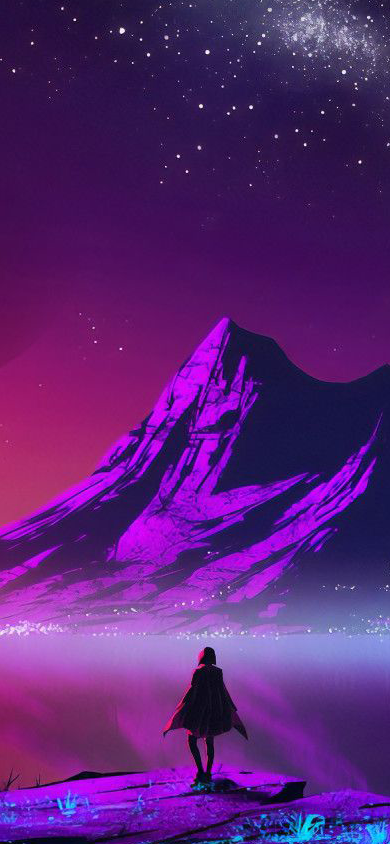
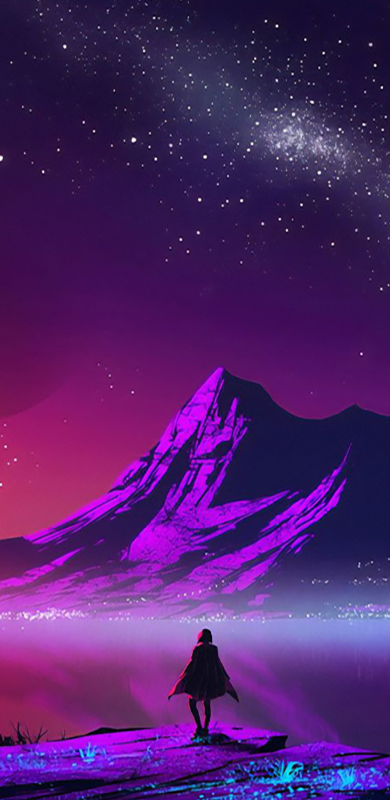
Parallax
section 1 intro parallax mobile

diff --git a/src/index.html b/src/index.html
@@ -33,13 +33,22 @@
       </nav>
     </header>
     <section>
-      <div>
-        <img class="img" src="assets/images/bg-intro-mb/69.png" alt="">
+      <div class="parallax-container">
+        <div class="parallax-layer" id="layer1"></div>
+        <div class="parallax-layer" id="layer2"></div>
+        <div class="parallax-layer" id="layer3"></div>
+        <div class="parallax-layer" id="layer4"></div>
       </div>
     </section>
-    <section></section>
-    <section></section>
-    <section></section>
+    <section>
+      <p>Lorem ipsum, dolor sit amet consectetur adipisicing elit. Placeat tempora recusandae voluptatibus commodi soluta, eaque dignissimos non fugiat molestiae aliquid perspiciatis accusamus ea aperiam rerum incidunt suscipit, eum, sint pariatur?</p>
+    </section>
+    <section>
+      <p>Lorem ipsum dolor sit amet consectetur, adipisicing elit. Nemo officia, numquam exercitationem assumenda voluptatem sint deleniti sed molestias placeat eius. Magnam cupiditate, reiciendis maiores porro fugit molestiae debitis sit vel?</p>
+    </section>
+    <section>
+      <p>Lorem ipsum dolor sit amet consectetur, adipisicing elit. Nemo officia, numquam exercitationem assumenda voluptatem sint deleniti sed molestias placeat eius. Magnam cupiditate, reiciendis maiores porro fugit molestiae debitis sit vel?</p>
+    </section>
     <footer></footer>
   </main>
 </body>

diff --git a/src/styles/app.scss b/src/styles/app.scss
@@ -5,6 +5,7 @@ body{
     background-color: #141015;
     margin: 0;
     padding: 0;
+    overflow-x: hidden;
     list-style: none;
 }
 .container{
@@ -129,4 +130,38 @@ body{
 }
 .img{
     width: 100%;
+}
+.parallax-container {
+    position: relative;
+    height: 100vh;
+    overflow: hidden;
+}
+
+.parallax-layer {
+    position: absolute;
+    width: 100%;
+    height: 100%;
+    background-size: cover;
+    background-position: center;
+    will-change: transform;
+}
+
+#layer1 {
+    background-image: url('../assets/images/bg-intro-mb/para1.png');
+    z-index: 1;
+}
+
+#layer2 {
+    background-image: url('../assets/images/bg-intro-mb/para2.png');
+    z-index: 2;
+}
+
+#layer3 {
+    background-image: url('../assets/images/bg-intro-mb/para3.png');
+    z-index: 3;
+}
+
+#layer4 {
+    background-image: url('../assets/images/bg-intro-mb/para4.png');
+    z-index: 4;
 }

diff --git a/src/styles/app.css b/src/styles/app.css
@@ -13,6 +13,7 @@ body {
   background-color: #141015;
   margin: 0;
   padding: 0;
+  overflow-x: hidden;
   list-style: none;
 }
 
@@ -137,4 +138,39 @@ body {
 
 .img {
   width: 100%;
+}
+
+.parallax-container {
+  position: relative;
+  height: 100vh;
+  overflow: hidden;
+}
+
+.parallax-layer {
+  position: absolute;
+  width: 100%;
+  height: 100%;
+  background-size: cover;
+  background-position: center;
+  will-change: transform;
+}
+
+#layer1 {
+  background-image: url("../assets/images/bg-intro-mb/para1.png");
+  z-index: 1;
+}
+
+#layer2 {
+  background-image: url("../assets/images/bg-intro-mb/para2.png");
+  z-index: 2;
+}
+
+#layer3 {
+  background-image: url("../assets/images/bg-intro-mb/para3.png");
+  z-index: 3;
+}
+
+#layer4 {
+  background-image: url("../assets/images/bg-intro-mb/para4.png");
+  z-index: 4;
 }/*# sourceMappingURL=app.css.map */

diff --git a/src/scripts/app.js b/src/scripts/app.js
@@ -6,3 +6,14 @@ const menu = document.querySelector('.menu');
 menuBurger.addEventListener('click', function(){
     menu.classList.toggle('menu--open');
 })
+
+document.addEventListener('scroll', function() {
+    const layers = document.querySelectorAll('.parallax-layer');
+    const scrollTop = window.pageYOffset || document.documentElement.scrollTop;
+
+    layers.forEach((layer, index) => {
+        const depth = index * 0.24; // Change the depth factor as needed
+        const movement = -(scrollTop * depth);
+        layer.style.transform = `translateY(${movement}px)`;
+    });
+});
